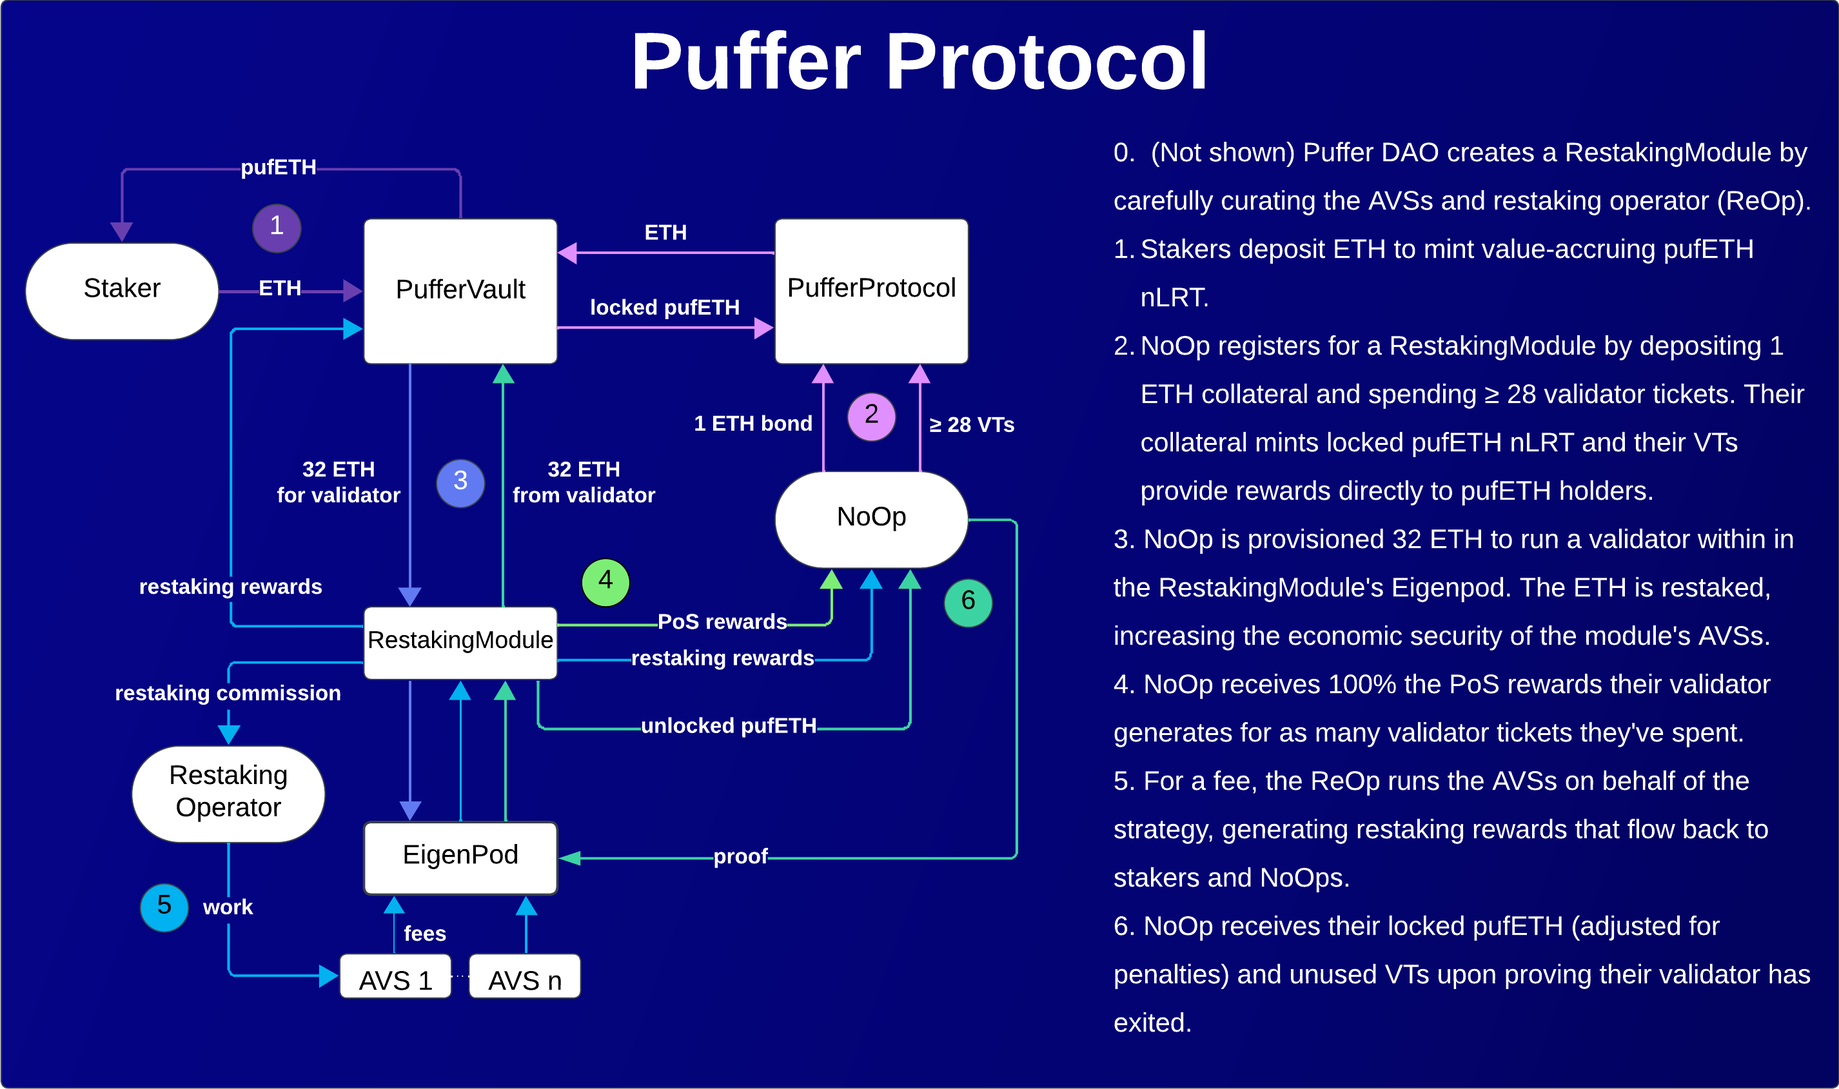
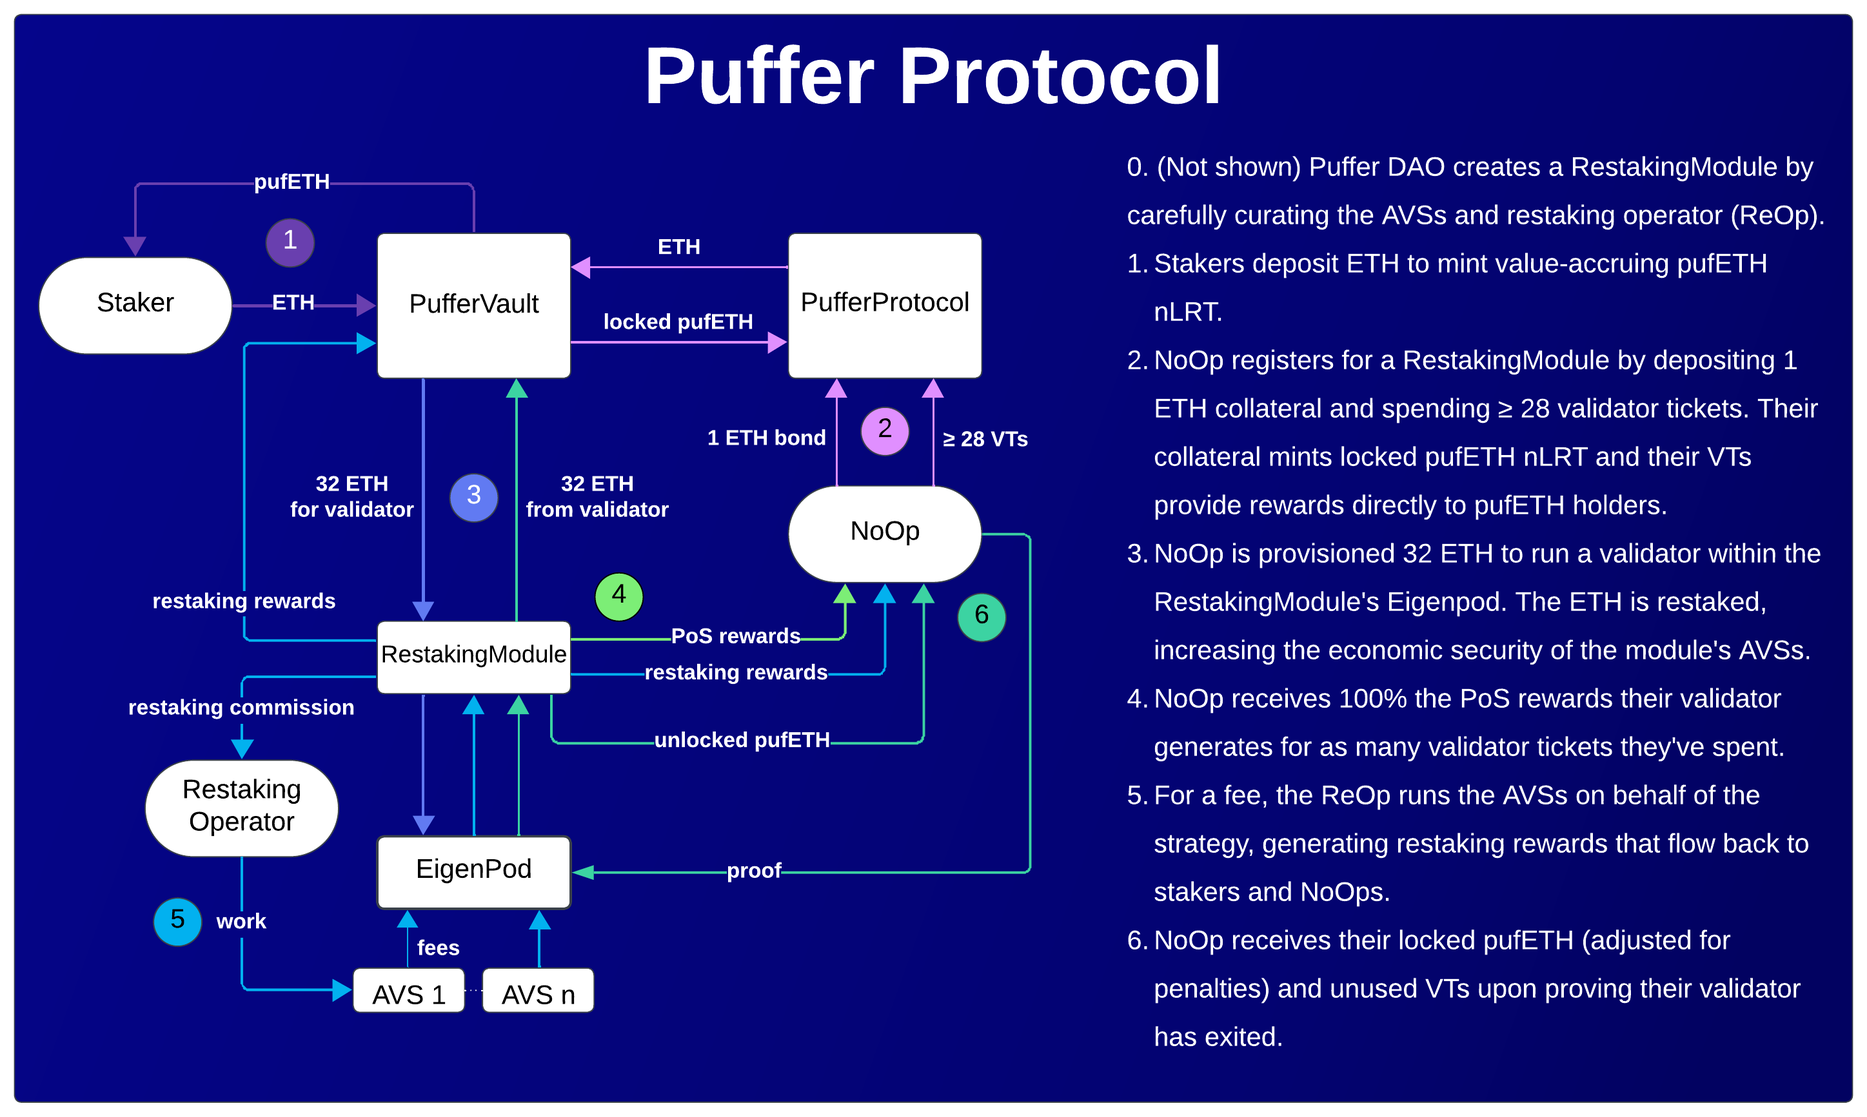
Enhancement/recent updates (#10)
* changes as per docs-dev update

* remove mention of pool

* clean up

---------

Changed region(s): [[0.0, 0.0, 1.0, 1.0], [0.4369, 0.431, 0.5305, 0.4926], [0.4993, 0.5234, 0.5617, 0.585]]

diff --git a/docs/validator-tickets.md b/docs/validator-tickets.md
@@ -21,7 +21,7 @@ The idea is simple but powerful:
 - **pufETH**: People stake their ETH and receive pufETH, a token representing their staked ETH within the Puffer protocol, which is used to fund Ethereum validators.
 - **Validator Tickets (VTs)**: VTs are ERC20 tokens that grant the holder the right to run a staker-funded Ethereum validator for a day. VTs are minted by ETH deposits. This ETH goes towards compensating pufETH holders for financing validators.
 - **Running Validators**: To run a validator, a node operator must lock VTs and lock in 1 ETH of pufETH as collateral.
-- **Pricing VTs**: The price of a VT is set based on the expected daily earnings from running a validator, with a discount to incentivize purchases. This price directly influences the expected pufETH APR.
+- **Pricing VTs**: The price of a VT is set based on the expected daily earnings from running a validator. This price directly influences the expected pufETH APR.
 - **Benefits**: VTs create new trading opportunities, address “rug-pooling”, and incentivize good performance. pufETH holders earn rewards immediately when VTs are purchased. Consuming VTs allows the node operator to keep 100% of the validator’s earnings.
 
 :::tip
@@ -54,7 +54,7 @@ In exchange, they are allocated 32 ETH to run a validator, and are entitled to 1
 For stakers, this means the value of pufETH increases every time a VT is minted. 
 :::
 
-Each VT represents one validator-day of expected Proof of Stake (PoS) rewards. The payments to mint VTs directly pay pufETH holders, creating strong growth dynamics. This mechanism is favorable for stakers, capital efficient, and incentivizes for optimal NoOp performance. Upon exiting a validator, the number of locked VT tokens, corresponding to the number of days the validator was active, will be burned and the remaining locked VTs are released back to the NoOp as a refund.
+Each VT represents one validator-day of expected Proof of Stake (PoS) rewards. The payments to mint VTs directly pay pufETH holders, creating strong growth dynamics. This mechanism is favorable for stakers, capital efficient, and incentivizes for optimal NoOp performance. Upon exiting a validator, the number of locked VT tokens, corresponding to the number of days the validator was active, will be burned and the remaining locked VTs may be retrieved by the NoOp.
 
 
 
@@ -63,7 +63,7 @@ The success of an LSP largely depends upon the performance of its NoOps. Traditi
 
 While this collateral approach discourages penalties, it does not strongly incentivize performance. For instance, a "lazy" NoOp could alternate between being online and offline, ensuring their validator balance stays at 32 ETH. This strategy results in no reward generation for the LSP, but also no collateral loss for the NoOp.
 
-Puffer changes this incentive landscape through the use of VTs. Since NoOps have already purchased VTs, they stand to gain nothing from underperforming since they cannot recoup this initial payment, even if they maintain their validator balance. Thus, for a NoOp to turn a profit, they must perform at least on par with the average validator. Those who excel can earn even more.
+Puffer changes this incentive landscape through the use of VTs. Since NoOps have already purchased VTs, they stand to gain nothing from underperforming since they cannot recoup this initial payment (as days pass and their VTs are burned), even if they maintain their validator balance. Thus, for a NoOp to turn a profit, they must perform at least on par with the average validator. Those who excel can earn even more.
 
 While VTs provide strong disincentives for slashing, to further protect the staker's ETH, Puffer requires a [1 or 2 ETH](/reference/faq#%EF%B8%8F-how-many-eth-do-i-need-to-run-a-puffer-node) bond and for NoOps to use [anti-slashing technology](/technology/secure-signer) for defense-in-depth.
 
@@ -74,7 +74,7 @@ This new approach neatly tackles two traditional problems:
 ### Requirements
 For PoS stability and NoOp incentive alignment, [1 or 2 ETH](/reference/faq#%EF%B8%8F-how-many-eth-do-i-need-to-run-a-puffer-node) worth of pufETH and a minimum of 28 VTs are required to be deposited at registration time. Their duration begins at the moment their validator is activated on the beacon chain, and each VT represents 1 day or 255 epochs.
 
-Assuming they deposited 28 VTs, after 28 days of validating, the NoOp's validator will be automatically ejected, its 32 ETH returned to the protocol, and bond returned. If they wish to extend their duration, NoOps can deposit additional VTs at any time. Validators with unconsumed VTs (e.g deposited 100 VTs) that exit after the 28 days will be refunded (e.g., 72 VTs).
+Assuming they deposited 28 VTs, after 28 days of validating, the NoOp's validator will be automatically ejected, its 32 ETH returned to the protocol, and bond returned. If they wish to extend their duration, NoOps can deposit additional VTs at any time. NoOps who have Validators with unconsumed VTs (e.g deposited 100 VTs) may retrieve them from the protocol (e.g., 72 VTs).
 
 
 ### Pricing Validator Tickets

diff --git a/docs/rave.md b/docs/rave.md
@@ -2,7 +2,7 @@
 title: RAVe
 slug: /technology/RAVe
 ---
-RAVe is the second component of Puffer's Ethereum Foundation grant and stands for `Remote Attestation Verification`. This essential set of smart contracts allows enclaves to interface with blockchains securely and helps let the Puffer Pool be permissionless. RAVe enables entirely [new use cases](https://ethresear.ch/t/2fa-zk-rollups-using-sgx/14462) that weren't previously possible that we are excited to explore at Puffer.
+RAVe is the second component of Puffer's Ethereum Foundation grant and stands for `Remote Attestation Verification`. This essential set of smart contracts allows enclaves to interface with blockchains securely and helps let the Puffer protocol be permissionless. RAVe enables entirely [new use cases](https://ethresear.ch/t/2fa-zk-rollups-using-sgx/14462) that weren't previously possible that we are excited to explore at Puffer.
 
 ## Remote Attestation
 The remote attestation (RA) process allows an untrusted party to prove they are running a specific SGX enclave. Since each enclave only allows the execution of the code it was initialized with, RA effectively allows one to prove to another that they can only run a specific program. In the context of messenger apps using SGX (e.g., [Signal](https://signal.org/blog/building-faster-oram/)), RA allows them to prove to their users' devices that they are running privacy-preserving software. 
@@ -14,8 +14,8 @@ RAVe v1 uses [EPID-based](https://api.portal.trustedservices.intel.com/EPID-atte
 
 The IAS will return RA evidence to the attesting SGX device upon successful RA. Included in the RA evidence is a RA report, the IAS-signed RA report, the IAS [root CA certificate](https://certificates.trustedservices.intel.com/Intel_SGX_Attestation_RootCA.pem), and the x.509 signing certificate used to sign the report. RAVe smart contracts verify these reports' provenance and validity of various report fields and then extract the 64-byte payload. 
 
-### RAVe in the Puffer Pool
-In Puffer, RA is how a node proves that they are running Secure-Signer and RAVe smart contracts verify RA evidence to allow entrance into the pool. When generating a validator key, the Secure-Signer enclave commits to its validator public key inside the RA report in the USERDATA field. RAVe verifies the node's RA evidence, extracts their validator public key, and registers it on-chain. This allows the node to prove to the pool that they were running a Secure-Signer enclave and generated a new validator key within it. Viewing the source code lets anyone verify that the Secure-Signer program never leaks the key.
+### RAVe in the Puffer Protocol
+In Puffer, RA is how a node proves that they are running Secure-Signer and RAVe smart contracts verify RA evidence to allow entrance into the protocol. When generating a validator key, the Secure-Signer enclave commits to its validator public key inside the RA report in the USERDATA field. RAVe verifies the node's RA evidence, extracts their validator public key, and registers it on-chain. This allows the node to prove to the protocol that they were running a Secure-Signer enclave and generated a new validator key within it. Viewing the source code lets anyone verify that the Secure-Signer program never leaks the key.
 
 ### RAVe in restaking
 ZKPs can be used to prove that a program was executed correctly, but an enclave prevents a user from running anything except the correct execution of the program. This is extremely attractive in the context of middlewares on Eigenlayer, especially when considering the negligent overhead of enclaves compared to ZKPs. Importantly, the issue of "stealth restaking" can be addressed through enclaves and RAVe.

diff --git a/docs/overview.md b/docs/overview.md
@@ -26,7 +26,7 @@ For example, adding a new module to the PufferProtocol contract requires governa
 
 ---
 ### 1⃣ Staking ETH  
-Stakers can deposit ETH and mint the [pufETH nLRT](/protocol/nlrt#pufeth) via the PufferPool contract, which serves as a redeemable receipt for their restaked ETH. If sufficient exit liquidity is available, stakers can reclaim their ETH from the PufferVault. Over time, the redeemable amount is expected to increase from [validator tickets](/protocol/validator-tickets) and restaking rewards.
+Stakers can deposit ETH and mint the [pufETH nLRT](/protocol/nlrt#pufeth) via the PufferVault contract, which serves as a redeemable receipt for their restaked ETH. If sufficient exit liquidity is available, stakers can reclaim their ETH from the PufferVault. Over time, the redeemable amount is expected to increase from [validator tickets](/protocol/validator-tickets) and restaking rewards.
 
 In [contrast with conventional liquid staking tokens (LSTs)](/protocol/nlrt#what-is-an-lst), pufETH can provide strictly more rewards for its holders. Not only does pufETH encompass PoS rewards **and** restaking rewards, but its value can accelerate quickly due to validator ticket sales. Furthermore, the PoS rewards for stakers are decoupled from the protocol validators' performance.
 
@@ -41,7 +41,7 @@ To ensure the safety of stakers, NoOps must distribute their encrypted validator
 
 ---
 ### 3⃣ Provisioning ETH
-Each RestakingModule contract will contain a queue of pending NoOp registrations. As the PufferPool accrues 32 ETH chunks from deposits and rewards, the Guardians will provision the chunks to the NoOps' pending validators, following a round-robin schedule to ensure all of the protocol's modules are serviced.
+Each RestakingModule contract will contain a queue of pending NoOp registrations. As the PufferVault accrues 32 ETH chunks from deposits and rewards, the Guardians will provision the chunks to the NoOps' pending validators, following a round-robin schedule to ensure all of the protocol's modules are serviced.
 
 The provisioning step will create a new validator within the EigenPod whose ETH can be natively restaked on Eigenlayer to serve as collateral for its registered AVS. For this reason, the NoOp's validator's [withdrawal credential](/reference/glossary#withdrawal-credentials) is required to the module's EigenPod contract. After provisioning, the NoOp's validator will have deposited 32 ETH to the [BeaconDepositContract](https://etherscan.io/address/0x00000000219ab540356cBB839Cbe05303d7705Fa) and will await activation.
 

diff --git a/docs/guiding-principles.md b/docs/guiding-principles.md
@@ -22,7 +22,7 @@ The protocol strives to improve Ethereum validator diversity. In this spirit, th
 ### Ethos-aligned
 > *The protocol must be aligned with Ethereum's ethos.*
 
-- Puffer is preemptively self-capping it's pool size to 22% to protect Ethereum's credible neutrality. Learn more 👉 [burst threshold to self-cap](/protocol/burst-threshold).
+- Puffer is preemptively self-capping it's protocol size to 22% to protect Ethereum's credible neutrality. Learn more 👉 [burst threshold to self-cap](/protocol/burst-threshold).
 - Puffer is designed with a roadmap to complete decentralization. Learn more 👉 [decentralizing the Guardians](/protocol/guardians#roadmap-to-decentralization).
 - Puffer helps increase Ethereum's Proof of Stake stability since NoOps have long-term commitments. Learn more 👉 [validator tickets](/protocol/validator-tickets#pros-and-cons).
 - Puffer received an Ethereum Foundation grant for our anti-slashing technology. Learn more 👉 [Secure-Signer](https://blog.ethereum.org/2023/02/22/allocation-update-q4-22).
@@ -30,8 +30,8 @@ The protocol strives to improve Ethereum validator diversity. In this spirit, th
 ### Permissionless
 > *The protocol must allow anyone to run a validator.*
 
-- Puffer allows anyone with [enclave-compatible](/reference/glossary#enclave) hardware and 1 ETH to run an Ethereum validator. Learn more 👉 [NoOp Requirements](/reference/faq#%EF%B8%8F-how-many-eth-do-i-need-to-run-a-puffer-node).
-- Puffer allows anyone with a 2 ETH bond (any hardware) to run an Ethereum validator. Learn more 👉 [NoOp Requirements](/reference/faq#%EF%B8%8F-how-many-eth-do-i-need-to-run-a-puffer-node).
+- Puffer allows anyone with [enclave-compatible](/reference/glossary#enclave) hardware and 1 ETH to run an Ethereum validator. Learn more 👉 [NoOp Requirements](/reference/faq#%EF%B8%8F-how-much-eth-do-i-need-to-run-a-puffer-node).
+- Puffer allows anyone with a 2 ETH bond (any hardware) to run an Ethereum validator. Learn more 👉 [NoOp Requirements](/reference/faq#%EF%B8%8F-how-much-eth-do-i-need-to-run-a-puffer-node).
 
 ### Low barriers
 > *The protocol must be capital efficient to attract NoOps.*

diff --git a/docs/nlrt.md b/docs/nlrt.md
@@ -48,7 +48,7 @@ Within the burgeoning LSDeFi ecosystem, the adaptability of staking mechanisms t
 Unlike the two-step process of holding an LST and then restaking it into an LRP to earn restaking rewards, with pufETH, users achieve this with a single step. By merely holding onto pufETH, they inherently tap into restaking rewards. This streamlining ensures that stakers can maximize the utility and rewards of their staked assets without compromising on the flexibility and opportunities traditional LSTs offer in DeFi.
 
 ### How pufETH Works
-Stakers deposit ETH at the PufferPool contract to the mint pufETH nLRT. At the protocol's inception, pufETH's conversion rate is one-to-one, but is updated daily when the protocol performs [proof of reserves](/protocol/guardians#what-are-their-duties). Assuming the protocol performs well, i.e., accrues more rewards than penalties, the amount of ETH reedamable for pufETH will increase between growth spurts. 
+Stakers deposit ETH to the PufferVault contract to mint the pufETH nLRT. At the protocol's inception, pufETH's conversion rate is one-to-one, but is updated daily when the protocol performs [proof of reserves](/protocol/guardians#what-are-their-duties). Assuming the protocol performs well, i.e., accrues more rewards than penalties, the amount of ETH reedamable for pufETH will increase. 
 
 #### Calculating the Conversion Rate
 The conversion rate can be calculated simply as:

diff --git a/docs/guardians.md b/docs/guardians.md
@@ -32,4 +32,4 @@ Achieving full protocol-level decentralization is the end goal for Puffer. This 
 - **EIP-7002**: Once implemented, it will render the Guardian's role in overseeing validator ejections obsolete as they can be triggered from a smart contract.
 - **EIP-4788**: Allows for trustless trustless proof of reserves, removing the dependency on any trusted entity to report how much ETH is backing the pufETH Liquid Staking Token (LST).
 
-Until these EIPs are fully adopted, the Guardians serve as an interim measure. They allow the Puffer Protocol to grow and decentralize Ethereum safely, ensuring pooled stakers remain shielded from risks and uncertainties in the interim. The Guardians' role, although crucial now, is a temporary measure designed to safeguard staker assets and ensure protocol growth in Ethereum's constantly evolving landscape.
+Until these EIPs are fully adopted, the Guardians serve as an interim measure. They allow the Puffer Protocol to grow and decentralize Ethereum safely, ensuring stakers remain shielded from risks and uncertainties in the interim. The Guardians' role, although crucial now, is a temporary measure designed to safeguard staker assets and ensure protocol growth in Ethereum's constantly evolving landscape.

diff --git a/docs/secure-signer.md b/docs/secure-signer.md
@@ -35,7 +35,7 @@ Beyond safeguarding the validator key, Secure-Signer prevents slashing by mainta
 The enclave enforces these assertions even if the node's operating system
 is compromised. If a catastrophic consensus client bug (e.g., one that overrides the EIP-3076 protection), nodes using Secure-Signer would be protected as the enclave runs in an isolated environment and maintains its integrity-protected slash protection database.
 
-By removing the possibility of slashing due to accidents or consensus client bugs, Secure-Signer significantly reduces node risk and allows the Puffer Pool to lower the bond requirement safely.
+By removing the possibility of slashing due to accidents or consensus client bugs, Secure-Signer significantly reduces node risk and allows the Puffer protocol to lower the bond requirement safely.
 
 ## Why use it?
 Distributed Validator Technology (DVT) can be considered the "MPC approach" to reduce slashing risk but requires paying in efficiency. Secure-Signer provides a cheaper alternative for validators to increase slash resistance. It is worth noting that Secure-Signer is complimentary with DVT, where each of the N key shares is stored in Secure-Signer enclaves.

diff --git a/docs/faq.md b/docs/faq.md
@@ -85,7 +85,7 @@ slug: /reference/faq
 
 > Since breaking SGX is of great interest in academia, there is a back-and-forth between white hat hackers finding exploits and Intel patches.
 
-> It is essential that Puffer relies on SGX as a **strict security enhancement**. Honest nodes are completely protected against all slashable offenses. However, should a nefarious node manage to break SGX, all that they would learn is knowledge of their validator private key. Knowledge of one's validator private key is the status quo for _all_ existing staking operations and does not provide the node with any way to steal from the pool.
+> It is essential that Puffer relies on SGX as a **strict security enhancement**. Honest nodes are completely protected against all slashable offenses. However, should a nefarious node manage to break SGX, all that they would learn is knowledge of their validator private key. Knowledge of one's validator private key is the status quo for _all_ existing staking operations and does not provide the node with any way to steal from the protocol.
 
 ### 🐊 Why don't other permissionless pools reduce their bond requirement to 1 ETH?
 

diff --git a/docs/burst-threshold.md b/docs/burst-threshold.md
@@ -14,4 +14,4 @@ Puffer is [committed to self-capping](https://twitter.com/puffer_finance/status/
 
 As the protocol reaches 22%, the number of mintable validator tickets will be reduced such that it can only sustain existing validators but not new ones. 
 
-This pledge is critical to ensure that the Puffer Pool never breaches the [dangerous consensus threshold of 33%](https://twitter.com/dannyryan/status/1688644951230267392?s=46&t=bsdBaPIHlTHEWDDdVUJW4g), which threatens the stability of Ethereum. We firmly believe that the burst threshold must be included from day one rather than after the protocol is profitable.
+This pledge is critical to ensure that the Puffer protocol never breaches the [dangerous consensus threshold of 33%](https://twitter.com/dannyryan/status/1688644951230267392?s=46&t=bsdBaPIHlTHEWDDdVUJW4g), which threatens the stability of Ethereum. We firmly believe that the burst threshold must be included from day one rather than after the protocol is profitable.

diff --git a/docs/glossary.md b/docs/glossary.md
@@ -23,7 +23,7 @@ Native Liquid Restaking Protocol. The Puffer protocol offers native ETH liquid r
 The yield bearing token that represents staked ETH in Puffer’s LSP
 
 ### `Stakers`
-The users who “stake” ETH to the pool to receive pufETH
+The users who “stake” ETH to the vault to receive pufETH
 
 ### `NoOps`
 The Puffer nodes that operate an Ethereum validator (and optionally additional AVSs)
@@ -35,7 +35,7 @@ A committee of Ethereum aligned community members and organizations to assist th
 A secure-computing environment capable of running Puffer’s anti-slashing technology
 
 ### `Burst Threshold`
-Code in our smart contracts that self-caps the pool at 22% marketshare
+Code in our smart contracts that self-caps the vault at 22% marketshare
 
 ### `Beacon Chain`
 The main component of the Ethereum blockchain responsible for Proof of Stake consensus

diff --git a/docs/intro.md b/docs/intro.md
@@ -86,6 +86,6 @@ Traditional liquid staking tokens (LSTs) only accrue PoS rewards. As a nLRT, puf
 
 Puffer prioritizes the safety of stakers' ETH. To ensure staked ETH is safe, the protocol requires:
 - NoOps to lock 1 ETH of collateral and run [Puffer’s anti-slashing technology](/technology/secure-signer) for defense-in-depth or lock 2 ETH of collateral without the anti-slasher
-- [Eject validators](/protocol/guardians#what-are-their-duties) whose balance falls too low
+- [Ejecting validators](/protocol/guardians#what-are-their-duties) whose balance falls too low
 - Guardrails around [which AVSs are allowed](/protocol/restaking-modules#restricting-avss)
 - Guardrails around who can become a [restaking operator](/protocol/restaking-modules#restricting-reops)
